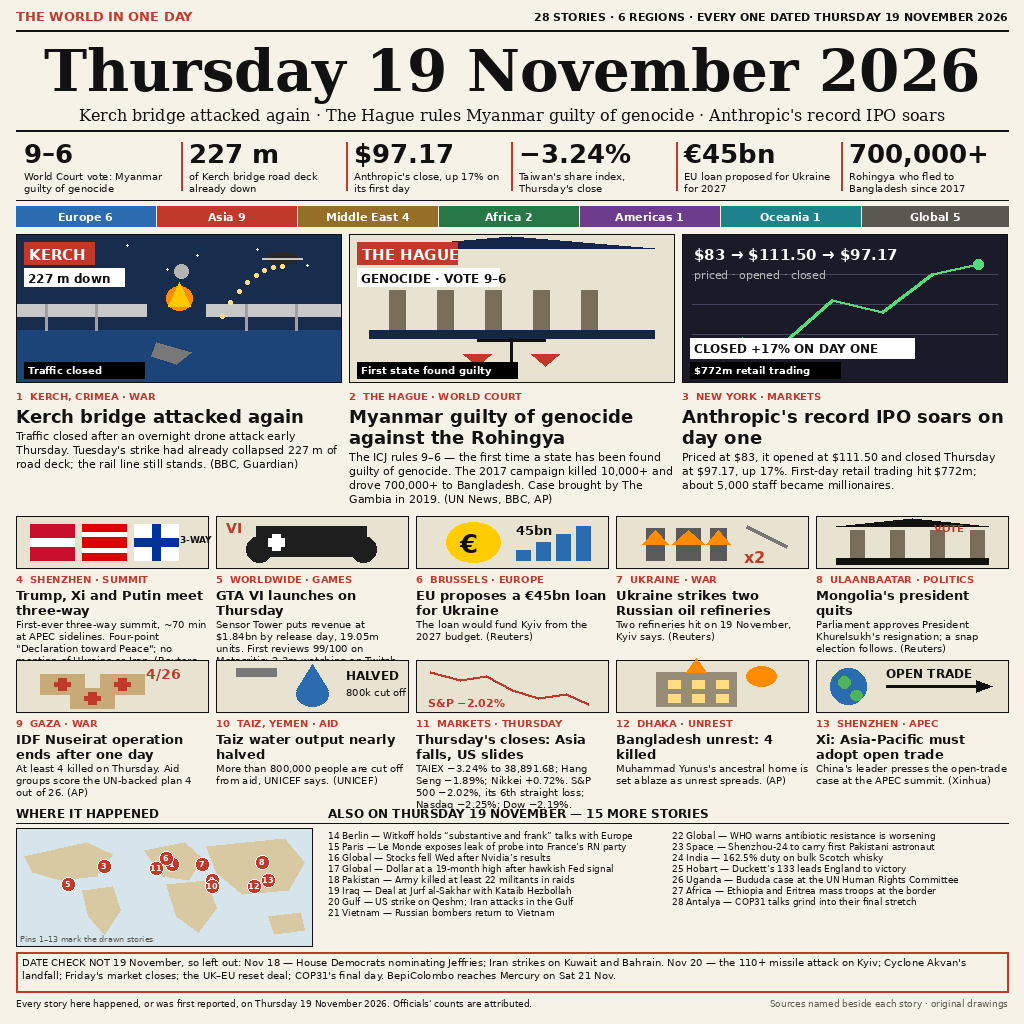
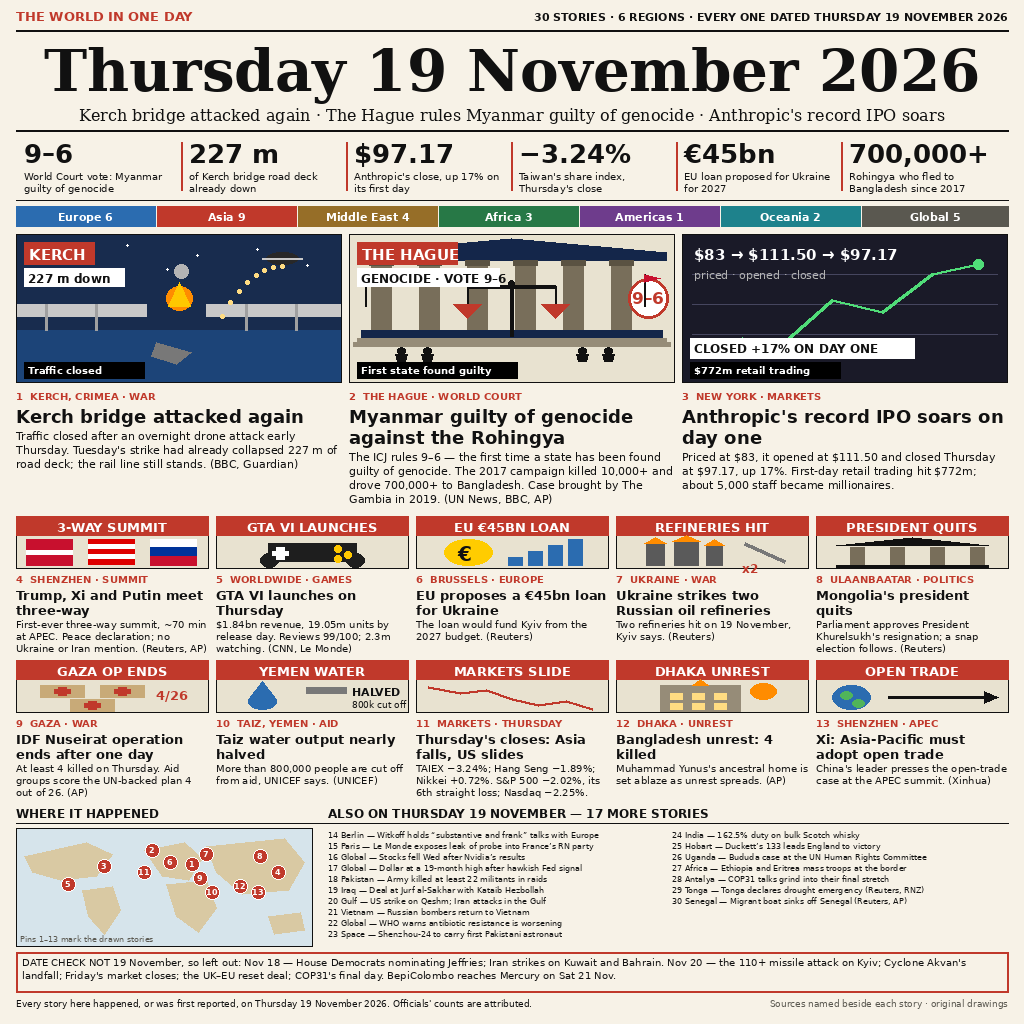
news-image-20261119: 30-story front page, deduped briefs, region bar recount

diff --git a/draw.py b/draw.py
@@ -55,7 +55,7 @@ MX = 16
 CW = W - 2 * MX
 
 d.text((MX, 8), "THE WORLD IN ONE DAY", font=SANS_B(13), fill=RED)
-right = "28 STORIES · 6 REGIONS · EVERY ONE DATED THURSDAY 19 NOVEMBER 2026"
+right = "30 STORIES · 6 REGIONS · EVERY ONE DATED THURSDAY 19 NOVEMBER 2026"
 d.text((W - MX - d.textlength(right, font=SANS_B(11)), 10),
        right, font=SANS_B(11), fill=INK)
 d.line([(MX, 30), (W - MX, 30)], fill=INK, width=2)
@@ -87,8 +87,8 @@ for i, (num, lab) in enumerate(stats):
 d.line([(MX, 200), (W - MX, 200)], fill=INK, width=1)
 
 regions = [("Europe 6", (43, 108, 176)), ("Asia 9", (192, 57, 43)),
-           ("Middle East 4", (150, 110, 40)), ("Africa 2", (39, 120, 70)),
-           ("Americas 1", (110, 60, 140)), ("Oceania 1", (30, 130, 140)),
+           ("Middle East 4", (150, 110, 40)), ("Africa 3", (39, 120, 70)),
+           ("Americas 1", (110, 60, 140)), ("Oceania 2", (30, 130, 140)),
            ("Global 5", (90, 88, 80))]
 rx, ry, rh = MX, 206, 20
 seg = CW // 7
@@ -137,18 +137,40 @@ def kerch(x, y, w, h):
 
 def hague(x, y, w, h):
     d.rectangle([x, y, x + w, y + h], fill=(232, 226, 208))
-    # courthouse
-    d.polygon([(x + 20, y + 14), (x + w // 2, y + 2), (x + w - 20, y + 14)], fill=NAVY)
-    for i in range(5):
-        bx = x + 40 + i * 48
-        d.rectangle([bx, y + 56, bx + 16, y + 96], fill=(120, 110, 90))
-    d.rectangle([x + 20, y + 96, x + w - 20, y + 104], fill=NAVY)
-    # scales of justice, centre front
-    cx, cy = x + w // 2, y + 118
-    d.line([(cx, cy - 14), (cx, cy + 22)], fill=INK, width=3)
-    d.line([(cx - 34, cy - 12), (cx + 34, cy - 12)], fill=INK, width=3)
-    d.polygon([(cx - 48, cy + 2), (cx - 20, cy + 2), (cx - 34, cy + 14)], fill=RED)
-    d.polygon([(cx + 20, cy + 2), (cx + 48, cy + 2), (cx + 34, cy + 14)], fill=RED)
+    cx = x + w // 2
+    # bigger courthouse: wide pediment, tall entablature, 6 tall columns
+    d.polygon([(x + 8, y + 18), (cx, y + 4), (x + w - 8, y + 18)], fill=NAVY)
+    d.rectangle([x + 8, y + 18, x + w - 8, y + 26], fill=NAVY)
+    for i in range(6):
+        bx = x + 22 + i * 48
+        d.rectangle([bx, y + 26, bx + 20, y + 96], fill=(120, 110, 90))
+        d.rectangle([bx - 2, y + 26, bx + 22, y + 31], fill=(90, 82, 66))
+    # base + steps
+    d.rectangle([x + 12, y + 96, x + w - 12, y + 104], fill=NAVY)
+    d.rectangle([x + 8, y + 104, x + w - 8, y + 108], fill=(150, 140, 120))
+    d.rectangle([x + 4, y + 108, x + w - 4, y + 112], fill=(150, 140, 120))
+    # larger scales of justice, in front of the columns
+    scx, scy = cx, y + 62
+    d.ellipse([scx - 3, scy - 16, scx + 3, scy - 10], fill=INK)
+    d.line([(scx, scy - 12), (scx, scy + 40)], fill=INK, width=4)
+    d.line([(scx - 44, scy - 10), (scx + 44, scy - 10)], fill=INK, width=4)
+    d.line([(scx - 44, scy - 10), (scx - 44, scy + 8)], fill=INK, width=2)
+    d.line([(scx + 44, scy - 10), (scx + 44, scy + 8)], fill=INK, width=2)
+    d.polygon([(scx - 58, scy + 8), (scx - 30, scy + 8), (scx - 44, scy + 22)], fill=RED)
+    d.polygon([(scx + 30, scy + 8), (scx + 58, scy + 8), (scx + 44, scy + 22)], fill=RED)
+    # "9-6" vote badge, top right
+    bx0, by0 = x + w - 46, y + 44
+    d.ellipse([bx0, by0, bx0 + 40, by0 + 40], fill=(255, 255, 255), outline=RED, width=3)
+    tv = d.textlength("9–6", font=SANS_B(17))
+    d.text((bx0 + 20 - tv / 2, by0 + 10), "9–6", font=SANS_B(17), fill=RED)
+    # small flags flanking the pediment
+    for fx, fcol in [(x + 16, (0, 120, 60)), (x + w - 30, (200, 16, 46))]:
+        d.line([(fx, y + 40), (fx, y + 72)], fill=INK, width=2)
+        d.polygon([(fx, y + 40), (fx + 16, y + 44), (fx, y + 48)], fill=fcol)
+    # small figures at the foot of the steps
+    for px in (x + 52, x + 78, x + w - 92, x + w - 66):
+        d.ellipse([px - 4, y + 113, px + 4, y + 120], fill=INK)
+        d.polygon([(px - 6, y + 120), (px + 6, y + 120), (px + 4, y + 127), (px - 4, y + 127)], fill=INK)
     d.rectangle([x + 8, y + 8, x + 108, y + 30], fill=RED)
     d.text((x + 13, y + 12), "THE HAGUE", font=SANS_B(15), fill=(255, 255, 255))
     d.rectangle([x + 8, y + 34, x + 150, y + 52], fill=(255, 255, 255))
@@ -201,90 +223,107 @@ SY = 516
 SCW = (CW - 4 * 8) // 5
 SH_IMG = 52
 
+BANNERS = {
+    "summit": "3-WAY SUMMIT",
+    "gta": "GTA VI LAUNCHES",
+    "euro": "EU €45BN LOAN",
+    "refinery": "REFINERIES HIT",
+    "mongolia": "PRESIDENT QUITS",
+    "gaza": "GAZA OP ENDS",
+    "yemen": "YEMEN WATER",
+    "markets": "MARKETS SLIDE",
+    "dhaka": "DHAKA UNREST",
+    "apec": "OPEN TRADE",
+}
+
 def icon_panel(x, y, w, h, kind):
     d.rectangle([x, y, x + w, y + h], fill=(232, 226, 208))
     d.rectangle([x, y, x + w, y + h], outline=INK, width=1)
-    cx, cy = x + w // 2, y + h // 2
-    if kind == "summit":  # three flags + handshake
-        d.rectangle([x + 14, y + 8, x + 58, y + h - 8], fill=(200, 16, 46))
-        d.rectangle([x + 14, y + h // 2 - 4, x + 58, y + h // 2 + 4], fill=(255, 255, 255))
-        d.rectangle([x + 66, y + 8, x + 110, y + h - 8], fill=(222, 0, 0))
-        for sy_ in (0, 1, 2, 3, 4):
-            d.rectangle([x + 66, y + 8 + sy_ * 8, x + 110, y + 12 + sy_ * 8], fill=(255, 255, 255) if sy_ % 2 else (222, 0, 0))
-        d.rectangle([x + 118, y + 8, x + 162, y + h - 8], fill=(255, 255, 255))
-        d.rectangle([x + 118, y + h // 2 - 4, x + 162, y + h // 2 + 4], fill=(0, 51, 153))
-        d.rectangle([x + 136, y + 8, x + 144, y + h - 8], fill=(0, 51, 153))
-        d.text((x + 164, y + 18), "3-WAY", font=SANS_B(9), fill=INK)
+    # bold in-icon title banner (red strip, top of panel)
+    d.rectangle([x, y, x + w, y + 19], fill=RED)
+    bt = BANNERS[kind]
+    fs = 13
+    while fs > 10 and d.textlength(bt, font=SANS_B(fs)) > w - 10:
+        fs -= 1
+    twb = d.textlength(bt, font=SANS_B(fs))
+    d.text((x + (w - twb) / 2, y + 3), bt, font=SANS_B(fs), fill=(255, 255, 255))
+    # icon art lives in the 33 px zone below the banner
+    iy = y + 19
+    cx = x + w // 2
+    if kind == "summit":  # three flags
+        d.rectangle([x + 10, iy + 4, x + 56, iy + 30], fill=(200, 16, 46))
+        d.rectangle([x + 10, iy + 15, x + 56, iy + 19], fill=(255, 255, 255))
+        for sy_ in range(5):
+            d.rectangle([x + 72, iy + 4 + sy_ * 5, x + 118, iy + 9 + sy_ * 5],
+                        fill=(255, 255, 255) if sy_ % 2 else (222, 0, 0))
+        d.rectangle([x + 134, iy + 4, x + 180, iy + 12], fill=(255, 255, 255))
+        d.rectangle([x + 134, iy + 12, x + 180, iy + 21], fill=(0, 51, 153))
+        d.rectangle([x + 134, iy + 21, x + 180, iy + 30], fill=(200, 16, 46))
     elif kind == "gta":  # game controller
-        d.rectangle([x + 40, cy - 16, x + 150, cy + 14], fill=(30, 30, 30))
-        d.ellipse([x + 30, cy - 6, x + 56, cy + 20], fill=(30, 30, 30))
-        d.ellipse([x + 134, cy - 6, x + 160, cy + 20], fill=(30, 30, 30))
-        d.rectangle([x + 56, cy - 8, x + 64, cy + 8], fill=(255, 255, 255))
-        d.rectangle([x + 52, cy - 4, x + 68, cy + 4], fill=(255, 255, 255))
-        for bx, by in [(118, cy - 8), (130, cy - 2), (118, cy + 2), (130, cy - 8)]:
-            d.ellipse([x + bx, y + by, x + bx + 7, y + by + 7], fill=(255, 200, 0))
-        d.text((x + 10, y + 4), "VI", font=SANS_B(14), fill=RED)
-    elif kind == "euro":  # euro coin
-        d.ellipse([x + 30, y + 6, x + 84, y + h - 6], fill=(255, 204, 0))
-        d.text((x + 44, y + 12), "€", font=SANS_B(26), fill=INK)
-        for i, bh in enumerate((10, 18, 26, 34)):
-            bx = x + 100 + i * 20
-            d.rectangle([bx, y + h - 8 - bh, bx + 14, y + h - 8], fill=BLUE)
-        d.text((x + 100, y + 6), "45bn", font=SANS_B(13), fill=INK)
+        d.rectangle([x + 52, iy + 8, x + 140, iy + 26], fill=(30, 30, 30))
+        d.ellipse([x + 44, iy + 18, x + 62, iy + 32], fill=(30, 30, 30))
+        d.ellipse([x + 130, iy + 18, x + 148, iy + 32], fill=(30, 30, 30))
+        d.rectangle([x + 60, iy + 12, x + 68, iy + 24], fill=(255, 255, 255))
+        d.rectangle([x + 56, iy + 16, x + 72, iy + 20], fill=(255, 255, 255))
+        for bx, by in [(118, iy + 10), (128, iy + 16), (118, iy + 20)]:
+            d.ellipse([x + bx, by, x + bx + 7, by + 7], fill=(255, 200, 0))
+    elif kind == "euro":  # euro coin + rising bars
+        d.ellipse([x + 28, iy + 4, x + 76, iy + 30], fill=(255, 204, 0))
+        d.text((x + 42, iy + 7), "€", font=SANS_B(20), fill=INK)
+        for i, bh in enumerate((8, 14, 20, 26)):
+            bx = x + 92 + i * 20
+            d.rectangle([bx, iy + 30 - bh, bx + 14, iy + 30], fill=BLUE)
     elif kind == "refinery":  # refinery towers + flame
-        for bx, bw in [(30, 18), (60, 24), (94, 16)]:
-            d.rectangle([x + bx, y + 12, x + bx + bw, y + h - 8], fill=(90, 90, 90))
-            d.polygon([(x + bx - 4, y + h - 24), (x + bx + bw // 2, y + h - 38),
-                       (x + bx + bw + 4, y + h - 24)], fill=(255, 140, 0))
-        d.line([(x + 130, y + 10), (x + 170, y + 30)], fill=(120, 120, 120), width=4)
-        d.text((x + 128, y + 32), "x2", font=SANS_B(16), fill=RED)
+        for bx, bw, top in [(30, 18, 8), (58, 24, 6), (90, 16, 10)]:
+            d.rectangle([x + bx, iy + top, x + bx + bw, iy + 30], fill=(90, 90, 90))
+            d.polygon([(x + bx - 2, iy + top), (x + bx + bw // 2, iy + top - 6),
+                       (x + bx + bw + 2, iy + top)], fill=(255, 140, 0))
+        d.line([(x + 128, iy + 8), (x + 168, iy + 26)], fill=(120, 120, 120), width=4)
+        d.text((x + 126, iy + 26), "x2", font=SANS_B(12), fill=RED)
     elif kind == "mongolia":  # parliament building
-        d.polygon([(x + 20, y + 10), (cx, y + 2), (x + w - 20, y + 10)], fill=INK)
+        d.polygon([(x + 20, iy + 10), (cx, iy + 2), (x + w - 20, iy + 10)], fill=INK)
         for i in range(4):
             bx = x + 34 + i * 40
-            d.rectangle([bx, y + 14, bx + 14, y + h - 10], fill=(120, 110, 90))
-        d.rectangle([x + 20, y + h - 10, x + w - 20, y + h - 4], fill=INK)
-        d.text((x + 118, y + 6), "VOTE", font=SANS_B(10), fill=RED)
+            d.rectangle([bx, iy + 12, bx + 14, iy + 30], fill=(120, 110, 90))
+        d.rectangle([x + 20, iy + 30, x + w - 20, iy + 32], fill=INK)
     elif kind == "gaza":  # aid boxes + cross
-        for bx, by in [(24, 14), (84, 14), (54, 28)]:
-            d.rectangle([x + bx, y + by, x + bx + 44, y + by + 20], fill=(200, 170, 120))
-            d.rectangle([x + bx + 18, y + by + 4, x + bx + 26, y + by + 16], fill=RED)
-            d.rectangle([x + bx + 14, y + by + 8, x + bx + 30, y + by + 12], fill=RED)
-        d.text((x + 130, y + 6), "4/26", font=SANS_B(14), fill=RED)
+        for bx, by in [(24, 6), (84, 6), (54, 20)]:
+            d.rectangle([x + bx, iy + by, x + bx + 44, iy + by + 12], fill=(200, 170, 120))
+            d.rectangle([x + bx + 18, iy + by + 2, x + bx + 26, iy + by + 10], fill=RED)
+            d.rectangle([x + bx + 14, iy + by + 4, x + bx + 30, iy + by + 8], fill=RED)
+        d.text((x + 140, iy + 8), "4/26", font=SANS_B(13), fill=RED)
     elif kind == "yemen":  # water drop + tap
-        d.polygon([(cx, y + 4), (cx - 16, y + 30), (cx + 16, y + 30)], fill=BLUE)
-        d.ellipse([cx - 16, y + 22, cx + 16, y + 46], fill=BLUE)
-        d.rectangle([x + 20, y + 8, x + 60, y + 16], fill=(120, 120, 120))
-        d.text((x + 130, y + 8), "HALVED", font=SANS_B(12), fill=INK)
-        d.text((x + 130, y + 26), "800k cut off", font=SANS(10), fill=INK)
+        d.polygon([(x + 46, iy + 2), (x + 32, iy + 20), (x + 60, iy + 20)], fill=BLUE)
+        d.ellipse([x + 32, iy + 14, x + 60, iy + 30], fill=BLUE)
+        d.rectangle([x + 90, iy + 8, x + 130, iy + 14], fill=(120, 120, 120))
+        d.text((x + 136, iy + 6), "HALVED", font=SANS_B(11), fill=INK)
+        d.text((x + 136, iy + 20), "800k cut off", font=SANS(9), fill=INK)
     elif kind == "markets":  # falling chart
-        pts = [(x + 14, y + 12), (x + 44, y + 20), (x + 70, y + 16), (x + 96, y + 30),
-               (x + 122, y + 38), (x + 150, y + 34), (x + 172, y + 44)]
+        pts = [(x + 12, iy + 8), (x + 44, iy + 14), (x + 70, iy + 11), (x + 96, iy + 20),
+               (x + 122, iy + 26), (x + 150, iy + 22), (x + 176, iy + 30)]
         for i in range(len(pts) - 1):
             d.line([pts[i], pts[i + 1]], fill=RED, width=3)
-        d.text((x + 12, y + h - 16), "S&P −2.02%", font=SANS_B(11), fill=RED)
     elif kind == "dhaka":  # burning building
-        d.rectangle([x + 40, y + 12, x + 120, y + h - 6], fill=(150, 140, 120))
-        for wy in (20, 34):
-            for wx in (52, 76, 100):
-                d.rectangle([x + wx, y + wy, x + wx + 12, y + wy + 8], fill=(255, 220, 130))
-        d.polygon([(x + 70, y + 12), (x + 80, y - 2), (x + 90, y + 12)], fill=(255, 140, 0))
-        d.ellipse([x + 130, y + 6, x + 160, y + 26], fill=(255, 140, 0))
-    elif kind == "apec":  # globe + trade arrows
-        d.ellipse([x + 14, cy - 18, x + 50, cy + 18], fill=BLUE)
-        d.ellipse([x + 22, cy - 10, x + 34, cy + 2], fill=(80, 180, 90))
-        d.ellipse([x + 34, cy + 4, x + 46, cy + 14], fill=(80, 180, 90))
-        d.line([(x + 70, cy), (x + 160, cy)], fill=INK, width=3)
-        d.polygon([(x + 160, cy - 6), (x + 176, cy), (x + 160, cy + 6)], fill=INK)
-        d.text((x + 70, cy - 20), "OPEN TRADE", font=SANS_B(12), fill=INK)
+        d.rectangle([x + 44, iy + 6, x + 124, iy + 32], fill=(150, 140, 120))
+        for wy in (14, 24):
+            for wx in (54, 76, 98):
+                d.rectangle([x + wx, iy + wy, x + wx + 12, iy + wy + 6], fill=(255, 220, 130))
+        d.polygon([(x + 76, iy + 6), (x + 84, iy + 0), (x + 92, iy + 6)], fill=(255, 140, 0))
+        d.ellipse([x + 134, iy + 4, x + 160, iy + 20], fill=(255, 140, 0))
+    elif kind == "apec":  # globe + trade arrow
+        d.ellipse([x + 16, iy + 6, x + 54, iy + 30], fill=BLUE)
+        d.ellipse([x + 24, iy + 12, x + 36, iy + 20], fill=(80, 180, 90))
+        d.ellipse([x + 36, iy + 20, x + 48, iy + 28], fill=(80, 180, 90))
+        d.line([(x + 72, iy + 18), (x + 168, iy + 18)], fill=INK, width=3)
+        d.polygon([(x + 168, iy + 12), (x + 182, iy + 18), (x + 168, iy + 24)], fill=INK)
 
 smalls = [
     ("4", "SHENZHEN · SUMMIT", "Trump, Xi and Putin meet three-way",
-     "First-ever three-way summit, ~70 min at APEC sidelines. Four-point "
-     "\"Declaration toward Peace\"; no mention of Ukraine or Iran. (Reuters, AP)", "summit"),
+     "First-ever three-way summit, ~70 min at APEC. Peace declaration; "
+     "no Ukraine or Iran mention. (Reuters, AP)", "summit"),
     ("5", "WORLDWIDE · GAMES", "GTA VI launches on Thursday",
-     "Sensor Tower puts revenue at $1.84bn by release day, 19.05m units. "
-     "First reviews 99/100 on Metacritic; 2.3m watching on Twitch. (CNN, Le Monde)", "gta"),
+     "$1.84bn revenue, 19.05m units by release day. Reviews 99/100; "
+     "2.3m watching. (CNN, Le Monde)", "gta"),
     ("6", "BRUSSELS · EUROPE", "EU proposes a €45bn loan for Ukraine",
      "The loan would fund Kyiv from the 2027 budget. (Reuters)", "euro"),
     ("7", "UKRAINE · WAR", "Ukraine strikes two Russian oil refineries",
@@ -298,8 +337,8 @@ smalls = [
     ("10", "TAIZ, YEMEN · AID", "Taiz water output nearly halved",
      "More than 800,000 people are cut off from aid, UNICEF says. (UNICEF)", "yemen"),
     ("11", "MARKETS · THURSDAY", "Thursday's closes: Asia falls, US slides",
-     "TAIEX −3.24% to 38,891.68; Hang Seng −1.89%; Nikkei +0.72%. S&P 500 "
-     "−2.02%, its 6th straight loss; Nasdaq −2.25%; Dow −2.19%.", "markets"),
+     "TAIEX −3.24%; Hang Seng −1.89%; Nikkei +0.72%. S&P 500 "
+     "−2.02%, its 6th straight loss; Nasdaq −2.25%.", "markets"),
     ("12", "DHAKA · UNREST", "Bangladesh unrest: 4 killed",
      "Muhammad Yunus's ancestral home is set ablaze as unrest spreads. (AP)", "dhaka"),
     ("13", "SHENZHEN · APEC", "Xi: Asia-Pacific must adopt open trade",
@@ -319,7 +358,7 @@ for idx, (num, place, head, body, kind) in enumerate(smalls):
 # ---------- BOTTOM: map + briefs ----------
 BY = 806
 d.text((MX, BY), "WHERE IT HAPPENED", font=SANS_B(12), fill=INK)
-d.text((MX + 312, BY), "ALSO ON THURSDAY 19 NOVEMBER — 15 MORE STORIES",
+d.text((MX + 312, BY), "ALSO ON THURSDAY 19 NOVEMBER — 17 MORE STORIES",
        font=SANS_B(12), fill=INK)
 d.line([(MX, BY + 17), (W - MX, BY + 17)], fill=INK, width=1)
 
@@ -338,9 +377,9 @@ d.polygon([(mx0 + 190, my0 + 18), (mx0 + 268, my0 + 10), (mx0 + 288, my0 + 34),
            (mx0 + 272, my0 + 62), (mx0 + 226, my0 + 66), (mx0 + 200, my0 + 44)], fill=TAN)
 d.polygon([(mx0 + 252, my0 + 88), (mx0 + 284, my0 + 84), (mx0 + 288, my0 + 102),
            (mx0 + 258, my0 + 106)], fill=TAN)
-pins = {1: (156, 36), 2: (150, 30), 3: (88, 38), 4: (252, 52), 5: (52, 56),
-        6: (150, 30), 7: (186, 36), 8: (246, 34), 9: (196, 52), 10: (196, 58),
-        11: (140, 40), 12: (238, 58), 13: (252, 52)}
+pins = {1: (176, 36), 2: (136, 22), 3: (88, 38), 4: (262, 44), 5: (52, 56),
+        6: (154, 34), 7: (190, 26), 8: (244, 28), 9: (184, 50), 10: (196, 64),
+        11: (128, 44), 12: (224, 58), 13: (242, 64)}
 for n, (px, py) in pins.items():
     d.ellipse([mx0 + px - 7, my0 + py - 7, mx0 + px + 7, my0 + py + 7],
               fill=RED, outline=(255, 255, 255), width=1)
@@ -366,15 +405,17 @@ briefs = [
     "26 Uganda — Bududa case at the UN Human Rights Committee",
     "27 Africa — Ethiopia and Eritrea mass troops at the border",
     "28 Antalya — COP31 talks grind into their final stretch",
+    "29 Tonga — Tonga declares drought emergency (Reuters, RNZ)",
+    "30 Senegal — Migrant boat sinks off Senegal (Reuters, AP)",
 ]
-assert len(briefs) == 15, len(briefs)
+assert len(briefs) == 17, len(briefs)
 bx0, by0 = MX + 312, BY + 24
 bcolw = (W - MX - bx0 - 8) // 2
 for i, b in enumerate(briefs):
-    col, row = divmod(i, 8)
+    col, row = divmod(i, 10)
     x = bx0 + col * (bcolw + 8)
     y = by0 + row * 11
-    d.text((x, y), b, font=SANS(9), fill=INK)
+    d.text((x, y), b, font=SANS(8), fill=INK)
 
 # ---------- DATE CHECK ----------
 dy = 952
